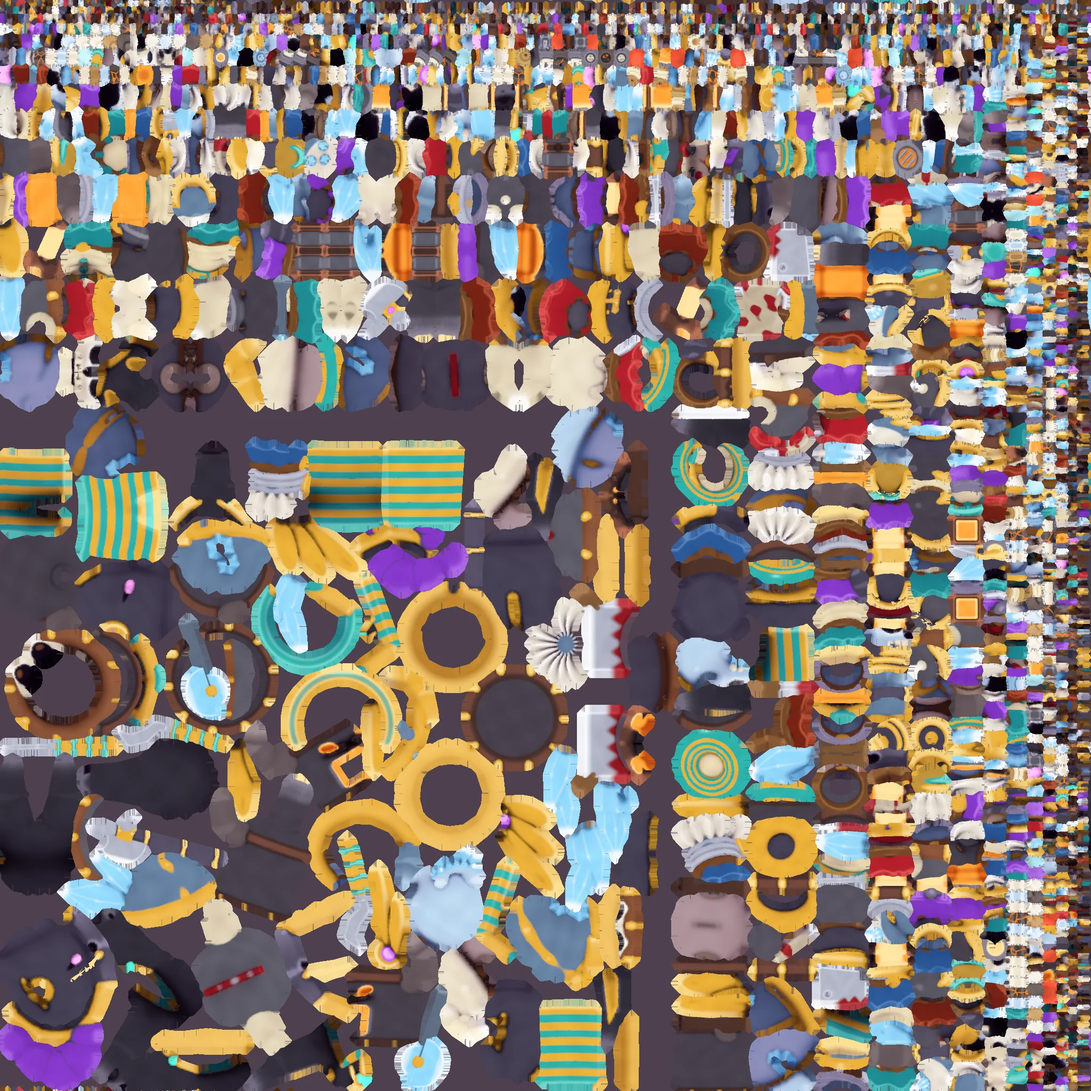
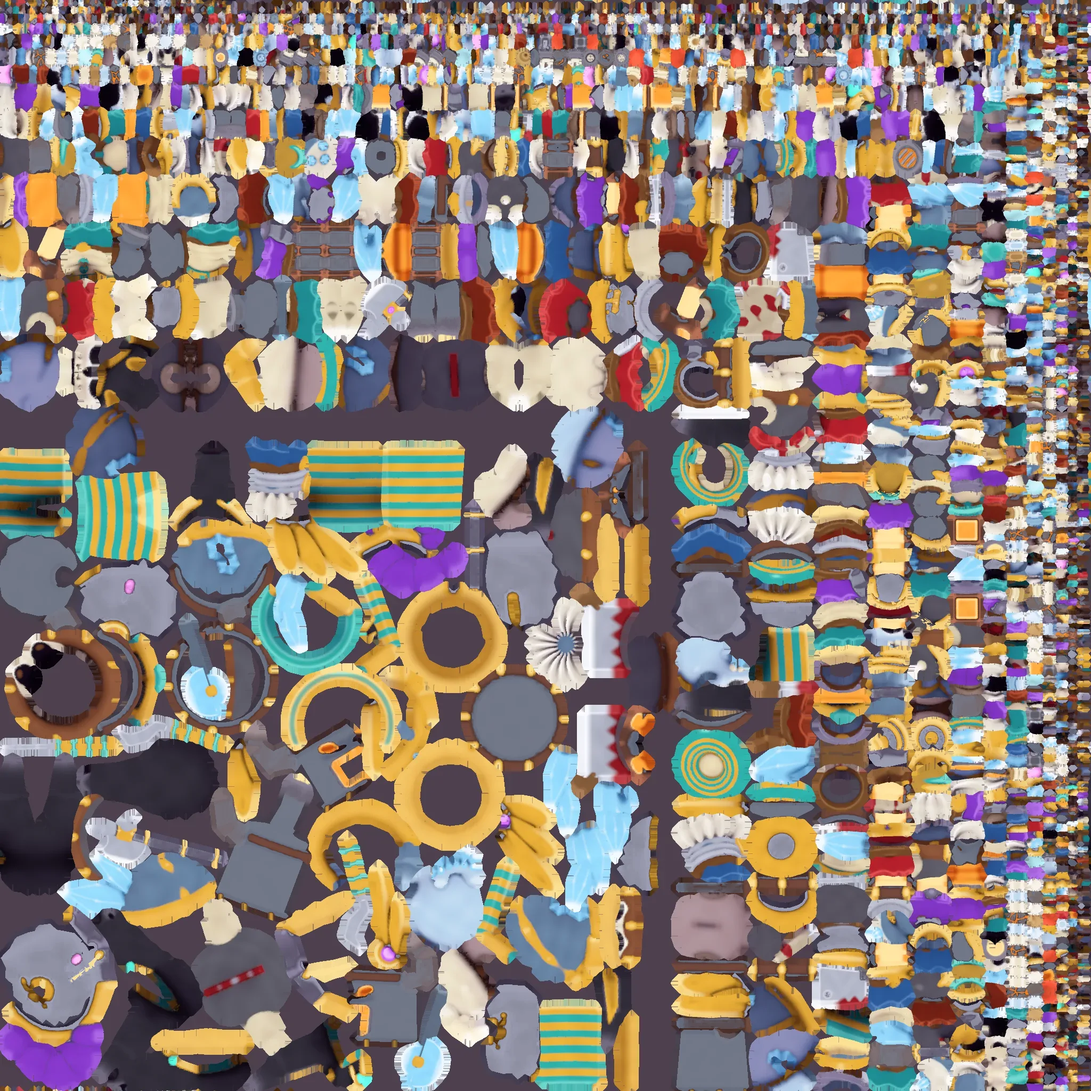
v149: character audit

diff --git a/index.html b/index.html
@@ -5682,8 +5682,9 @@ function buildWarlord(i) {
   if (art) { // the sculpted warlord
     root.traverse(o => { if (o.isSkinnedMesh) o.skeleton.pose(); }); root.updateMatrixWorld(true);
     const m = art.mat.clone(), fx = {}; mats.push(m); const parts = hangArt(root, art, m); fx.arms = ['cleaver', 'hook', 'staff', 'flail', 'spear', 'shield', 'hammer'].map(n => parts[n]).filter(Boolean);
+    if (parts.hammer) parts.hammer.rotateX(.55); if (parts.cleaver) parts.cleaver.rotateX(.3); // held out to the side, clear of the face
     if (parts.flag) fx.flag = parts.flag; // Grimbald's banner sways
-    if (art.geo.scarab) { fx.orbit = new THREE.Group(); for (let k = 0; k < 3; k++) { const a = k / 3 * Math.PI * 2, o = new THREE.Mesh(art.geo.scarab, m); o.position.set(Math.cos(a) * 1.15, 1.4 + k * .25, Math.sin(a) * 1.15); o.scale.setScalar(1.35); o.castShadow = true; o.frustumCulled = false; fx.orbit.add(o); } } // Sek-Ra's scarabs circle him
+    if (art.geo.scarab) { fx.orbit = new THREE.Group(); for (let k = 0; k < 3; k++) { const a = k / 3 * Math.PI * 2, o = new THREE.Mesh(art.geo.scarab, m); o.position.set(Math.cos(a) * 1.45, .98 + k * .1, Math.sin(a) * 1.45); o.scale.setScalar(1.1); o.castShadow = true; o.frustumCulled = false; fx.orbit.add(o); } m.emissiveIntensity = 1.7; } // Sek-Ra's scarabs circle him at the chest, never over his face; his eyes burn a little brighter
     if (art.J.mouth) { fx.mouth = new THREE.Object3D(); fx.mouth.position.set(...art.J.mouth); rigOn(root, 'head', fx.mouth); } // Hrimgar's frosty breath
     return finishWarlord(i, d, root, mats, fx, art);
   }
@@ -5987,12 +5988,12 @@ function strike() {
 function wlFx(b, dt, at, k) { // a warlord's own signs of life, wherever he stands. k: his size
   const mv = b.d.move, q = k / WL_S, X = at.x, Y = at.y, Z = at.z;
   if (b.fx.flag) b.fx.flag.rotation.y = Math.sin(G.t * 4.2) * .3;
-  if (b.fx.orbit) { b.fx.orbit.rotation.y += dt * 1.7; b.fx.orbit.children.forEach((c, k) => { c.position.y = 1.4 + k * .25 + Math.sin(G.t * 3 + k * 2) * .12; c.rotation.y = -b.fx.orbit.rotation.y + k; }); }
+  if (b.fx.orbit) { b.fx.orbit.rotation.y += dt * 1.7; b.fx.orbit.children.forEach((c, k) => { c.position.y = (b.art ? .98 + k * .1 : 1.4 + k * .25) + Math.sin(G.t * 3 + k * 2) * (b.art ? .06 : .12); c.rotation.y = -b.fx.orbit.rotation.y + k; }); }
   if (mv === 'swarm' && rand() < .6 && Y < 1) { const a = rand() * 6.28, r = 1.6 + rand() * 1.4; burst(X + Math.cos(a) * r, Y + .2 + rand() * .6, Z + Math.sin(a) * r, ['#e8c890', '#d6aa6a', '#fff0c0'], 1, 1.2, { vy: .8, life: .7, g: .5, sz: 1.3, kind: PK.SPARK }); } // a whirl of sand at his feet
   if (mv === 'spears' && b.fx.mouth) { if (rand() < .3) burst(X + (rand() - .5) * 3 * q, Y + .5 + rand() * 3.5 * q, Z + (rand() - .5) * 2, ['#ffffff', '#bfefff'], 1, .6, { vy: -.4, life: 1, g: .3, sz: 1.1, kind: PK.SPARK });
-    if ((WL.breathT = (WL.breathT || 0) - dt) <= 0) { WL.breathT = 1.4; b.fx.mouth.getWorldPosition(_kv); burst(_kv.x, _kv.y, _kv.z + .3, ['#ffffff', '#dff8ff', '#bfefff'], 7, 1.4, { vy: .3, life: .9, g: -.4, sz: 2, kind: PK.SPARK }); } } // frost on his breath
+    if ((WL.breathT = (WL.breathT || 0) - dt) <= 0) { WL.breathT = 1.4; b.fx.mouth.getWorldPosition(_kv); burst(_kv.x, _kv.y - .9 * q, _kv.z + .5, ['#dff8ff', '#bfefff'], 4, 1.1, { vy: -.2, life: .7, g: -.2, sz: 1, kind: PK.SPARK }); } } // frost on his breath
   if (mv === 'cleave' && rand() < .15) burst(X + (rand() - .5) * 2, Y + .3 + (Y > .05 ? 3 * rand() : 0), Z + (rand() - .5), ['#ff3a3a', '#8a1020'], 1, .8, { vy: 1, life: .5, g: 2, sz: 1.2, kind: PK.SPARK });
-  if (mv === 'quake' && rand() < .45) burst(X + (rand() - .5) * 1.6 * q, Y + 1 + rand() * 3.5 * q, Z + (rand() - .5) * 1.2, ['#ffe680', '#ff9a2a', '#ff4a1a'], 1, .8, { vy: 2.2, life: .7, g: -.6, sz: 1.4, kind: PK.SPARK }); // embers rising off him
+  if (mv === 'quake' && rand() < .07) burst(X + (rand() - .5) * 3.4 * q, Y + (4.1 + rand() * .7) * q, Z - .4, ['#ffe680', '#ff9a2a', '#ff4a1a'], 1, .8, { vy: 2.2, life: .7, g: -.6, sz: 1.4, kind: PK.SPARK }); // embers rising off him
 }
 function updateWarlord(dt, play) {
   captainTick(dt, play); holdTick(dt);
@@ -6039,7 +6040,7 @@ function updateWarlord(dt, play) {
         if (ants.kind[i]) { explode(ants.x[i], ants.z[i]); ants.hp[i] = 0; continue; }
         hurtWarlord(ants.hp[i]); ants.hp[i] = 0; hits++; if (rand() < .4) burst(ants.x[i], 1 + rand() * 2, ants.z[i], [ALLY_FX, '#ffffff', WL.def.col], 2, 3, { vy: 3, life: .4, g: 8, sz: 1.4, kind: PK.SPARK }); if (!WL.alive) break; }
       if (hits) meleeHit(); }
-    if (WL.def.move === 'quake' && rand() < .5 && b.fx.head) { b.fx.head.getWorldPosition(_kv); burst(_kv.x + (rand() - .5) * .6, _kv.y + .5, _kv.z, ['#ffe680', '#ff9a2a', '#ff4a1a'], 1, 1.2, { vy: 2.5, life: .5, g: -1, sz: 1.8, kind: PK.SPARK }); }
+    if (WL.def.move === 'quake' && rand() < .14 && b.fx.head) { b.fx.head.getWorldPosition(_kv); burst(_kv.x + (rand() - .5) * .6, _kv.y + .5, _kv.z, ['#ffe680', '#ff9a2a', '#ff4a1a'], 1, 1.2, { vy: 2.5, life: .5, g: -1, sz: 1.8, kind: PK.SPARK }); }
     // heavy footfalls: a thud you feel, a puff of dust and a print left on the road in his colour
     if (WL.state === 'walk' || WL.state === 'enter') { WL.stepT = (WL.stepT || 0) - dt;
       if (WL.stepT <= 0) { WL.stepT = WL.rage ? .42 : .55; WL.foot = -(WL.foot || 1); const px = WL.x + WL.foot * .6, pz = WL.z + .25;
@@ -6050,7 +6051,7 @@ function updateWarlord(dt, play) {
   // place him; he swells up as he comes through the gate, and flashes when he's hit
   const grow = WL.state === 'enter' ? .75 + .25 * Math.min(1, WL.st / 1.2) : 1;
   b.g.position.set(WL.x, WL.y, WL.z); b.g.scale.setScalar(WL_S * grow * (WL.def.s || 1));
-  for (const m of b.mats) if (m.emissiveMap) { m.color.setScalar(1 + WL.flash * .9); if (b.ghost) { m.color.r *= 1.25; m.color.g *= .8; m.color.b *= 1.9; } } else m.emissive.copy(m.userData.e0).lerp(WHITE, WL.flash * .22); // (a sculpted warlord has a glow map: his whole skin brightens instead)
+  for (const m of b.mats) if (m.emissiveMap) { m.color.setScalar(1 + WL.flash * .28); if (b.ghost) { m.color.r *= 1.25; m.color.g *= .8; m.color.b *= 1.9; } } else m.emissive.copy(m.userData.e0).lerp(WHITE, WL.flash * .22); // (a sculpted warlord has a glow map: his whole skin brightens instead)
 }
 /* ---------------- the captains ----------------
    Halfway through a world the warlord sends out his captain: a giant brute with a guard. While he stands the castle is shielded.
@@ -6065,7 +6066,7 @@ function buildCaptain(w) { // one of the four figures in the set, hung on the sa
   const B = CAP.built || (CAP.built = []); if (B[w]) return B[w];
   const root = THREE.SkeletonUtils.clone(KK.Skeleton_Warrior.scene); root.position.set(0, 0, 0); root.rotation.set(0, 0, 0); root.scale.setScalar(1);
   root.traverse(o => { if (o.isSkinnedMesh) o.skeleton.pose(); }); root.updateMatrixWorld(true);
-  const m = capArt.mat.clone(); hangArt(root, { geo: capArt.geo, J: { nodes: capArt.J.nodes.filter(n => n.name.startsWith('c' + w + '_')), glow: [] } }, m);
+  const m = capArt.mat.clone(); hangArt(root, { geo: capArt.geo, J: { nodes: capArt.J.nodes.filter(n => n.name.startsWith('c' + w + '_')), glow: [] } }, m); { const h = root.getObjectByName('handslotr'); if (h) for (const o of h.children) if (o.isMesh) o.rotateX(.5); } // (held out to the side: upright, it crossed his face)
   const g = new THREE.Group(); g.add(root); g.visible = false; g.userData.dyn = true; wlGroup.add(g);
   const mixer = new THREE.AnimationMixer(root), acts = {};
   for (const [k, n, alt] of [['walk', 'Walking_A', 'Running_A'], ['strike', 'Throw', 'Use_Item'], ['die', 'Death_A', 'Death_B']]) { const c = clipOf(n) || clipOf(alt); if (!c) continue; const a = acts[k] = mixer.clipAction(c); if (k !== 'walk') { a.setLoop(THREE.LoopOnce, 1); a.clampWhenFinished = true; } }
@@ -6099,7 +6100,7 @@ function captainDown(x, z, through) { // he falls, or breaks into your camp: eit
 }
 function captainTick(dt, play) {
   if (play && !CAP.on && !CAP.done && isCaptain(G.level) && G.fortHp <= G.fortMax * CAP_WARD) startCaptain();
-  if (CAP.b && CAP.b.g.visible) { const b = CAP.b; b.mixer.update(dt); CAP.flash = Math.max(0, (CAP.flash || 0) - dt * 5); b.m.color.setScalar(1 + CAP.flash * .9); if (CAP.act && (CAP.actT -= dt) <= 0) { CAP.act.fadeOut(.2); CAP.act = null; if (b.acts.walk) b.acts.walk.setEffectiveWeight(1); } if (CAP.dead) { CAP.dead += dt; if (CAP.dead > 1.8) b.g.position.y -= dt * 1.5; if (CAP.dead > 4) b.g.visible = false; } }
+  if (CAP.b && CAP.b.g.visible) { const b = CAP.b; b.mixer.update(dt); CAP.flash = Math.max(0, (CAP.flash || 0) - dt * 5); b.m.color.setScalar(1 + CAP.flash * .25); if (CAP.act && (CAP.actT -= dt) <= 0) { CAP.act.fadeOut(.2); CAP.act = null; if (b.acts.walk) b.acts.walk.setEffectiveWeight(1); } if (CAP.dead) { CAP.dead += dt; if (CAP.dead > 1.8) b.g.position.y -= dt * 1.5; if (CAP.dead > 4) b.g.visible = false; } }
   if (!CAP.alive) return;
   let j = -1; for (let k = 0; k < beetles.n; k++) if (beetles.tier[k] === F_CAP && beetles.hp[k] > 0) { j = k; break; }
   if (j < 0) { captainDown(CAP.x, CAP.z); return; }
@@ -7306,7 +7307,7 @@ window.addEventListener('keyup', e => { keys[e.key] = false; if (e.key === ' ') 
 async function perfTest() { // ?perf: speed test 4. First the frame rate (an empty page, then a battle as you play it), then what each part of a frame costs the GPU when it is kept busy
   const box = document.createElement('div'); box.style.cssText = 'position:fixed;left:6px;right:6px;top:calc(env(safe-area-inset-top) + 6px);z-index:99;padding:9px 11px;border-radius:12px;background:rgba(8,12,30,.92);color:#fff;font:600 12px/1.42 ui-monospace,Menlo,monospace;white-space:pre'; document.body.appendChild(box);
   const wait = ms => new Promise(r => setTimeout(r, ms)), raf = () => new Promise(r => requestAnimationFrame(r)), rows = [], gl = renderer.getContext(), px = new Uint8Array(4), med = a => a.sort((x, y) => x - y)[a.length >> 1];
-  const V = 'Speed test 4 (v148' + (LEAN ? ', lean)' : ')'), show = s => { box.textContent = V + ': ' + s + '\n' + rows.join('\n'); };
+  const V = 'Speed test 4 (v149' + (LEAN ? ', lean)' : ')'), show = s => { box.textContent = V + ': ' + s + '\n' + rows.join('\n'); };
   box.textContent = V + ': tap here to start\n(about 40 s, with sound)'; await new Promise(r => box.addEventListener('pointerdown', r, { once: true }));
   audio(); show('loading...'); G.perf = true; G.practiceKeep = JSON.stringify(save); G.practice = true; save.level = 11; save.v = 3;
   await Promise.race([loadLm('dunes'), wait(8000)]); await wait(800);
@@ -7370,7 +7371,7 @@ const AB = /[?&]ab(=1)?(&|$)/.test(location.search) ? (() => {
   const show = () => {
     if (!X.box) { X.box = document.createElement('div'); X.box.style.cssText = 'position:fixed;left:6px;top:calc(env(safe-area-inset-top) + 6px);z-index:99;pointer-events:none;padding:7px 9px;border-radius:10px;background:rgba(8,12,30,.88);color:#fff;font:600 11px/1.35 ui-monospace,Menlo,monospace;white-space:pre'; document.body.appendChild(X.box); }
     const c = Math.min(...D.map(d => d.t)) / (SLOT - SKIP), f = (a, b) => (b ? a / b : 0).toFixed(1).padStart(5);
-    X.done = c >= 3.9; X.box.textContent = (X.done ? 'DONE: screenshot this' : 'Keep playing: ' + Math.min(99, Math.floor(c / 4 * 100)) + '%') + '  (v148' + (LEAN ? ' lean' : '') + ')\n' + 'off now'.padEnd(16) + ' fps  60% rules  draw  page\n' + D.map((d, i) => (i === X.m ? '>' : ' ') + N[i].padEnd(15) + (d.t ? 1000 * d.n / d.t : 0).toFixed(0).padStart(4) + (d.n ? Math.round(100 * d.ok / d.n) : 0).toString().padStart(5) + f(d.u, d.n) + ' ' + f(d.r, d.n) + ' ' + f(d.p, d.pn)).join('\n') + '\n' + gameEl.clientWidth + 'x' + gameEl.clientHeight + ' @' + pixelRatio + '  ' + ants.n + '/' + beetles.n + '  touches ' + (D[0].n ? D[0].ev / D[0].n : 0).toFixed(1);
+    X.done = c >= 3.9; X.box.textContent = (X.done ? 'DONE: screenshot this' : 'Keep playing: ' + Math.min(99, Math.floor(c / 4 * 100)) + '%') + '  (v149' + (LEAN ? ' lean' : '') + ')\n' + 'off now'.padEnd(16) + ' fps  60% rules  draw  page\n' + D.map((d, i) => (i === X.m ? '>' : ' ') + N[i].padEnd(15) + (d.t ? 1000 * d.n / d.t : 0).toFixed(0).padStart(4) + (d.n ? Math.round(100 * d.ok / d.n) : 0).toString().padStart(5) + f(d.u, d.n) + ' ' + f(d.r, d.n) + ' ' + f(d.p, d.pn)).join('\n') + '\n' + gameEl.clientWidth + 'x' + gameEl.clientHeight + ' @' + pixelRatio + '  ' + ants.n + '/' + beetles.n + '  touches ' + (D[0].n ? D[0].ev / D[0].n : 0).toFixed(1);
   };
   X.frame = (now, dt, raw) => { // stands in for update + render
     if (G.mode !== 'play' || G.paused || G.t < 2.5) { if (X.on) { put(X.m, false); X.on = false; } X.at = 0; return false; }
@@ -7398,7 +7399,7 @@ const AB2 = /[?&]ab=2(&|$)/.test(location.search) ? (() => {
   const show = () => {
     if (!X.box) { X.box = document.createElement('div'); X.box.style.cssText = 'position:fixed;left:6px;top:calc(env(safe-area-inset-top) + 6px);z-index:99;pointer-events:none;padding:7px 9px;border-radius:10px;background:rgba(8,12,30,.88);color:#fff;font:600 11px/1.35 ui-monospace,Menlo,monospace;white-space:pre'; document.body.appendChild(X.box); }
     const c = Math.min(...D.map((d, k) => d.t / (LEN(k) - SKIP))), f = (a, b) => (b ? a / b : 0).toFixed(1).padStart(5);
-    X.box.textContent = (c >= 3.9 ? 'DONE: screenshot this' : 'Keep playing: ' + Math.min(99, Math.floor(c / 4 * 100)) + '%') + '  (real play, v148' + (LEAN ? ' lean' : '') + ')\n' + 'changed'.padEnd(16) + ' fps  60%  30% rules  draw  page\n' + D.map((d, i) => (i === X.m ? '>' : ' ') + N[i].padEnd(15) + (d.t ? 1000 * d.n / d.t : 0).toFixed(0).padStart(4) + (d.n ? Math.round(100 * d.ok / d.n) : 0).toString().padStart(5) + (d.n ? Math.round(100 * d.half / d.n) : 0).toString().padStart(5) + f(d.u, d.n) + ' ' + f(d.r, d.n) + ' ' + f(d.p, d.pn)).join('\n');
+    X.box.textContent = (c >= 3.9 ? 'DONE: screenshot this' : 'Keep playing: ' + Math.min(99, Math.floor(c / 4 * 100)) + '%') + '  (real play, v149' + (LEAN ? ' lean' : '') + ')\n' + 'changed'.padEnd(16) + ' fps  60%  30% rules  draw  page\n' + D.map((d, i) => (i === X.m ? '>' : ' ') + N[i].padEnd(15) + (d.t ? 1000 * d.n / d.t : 0).toFixed(0).padStart(4) + (d.n ? Math.round(100 * d.ok / d.n) : 0).toString().padStart(5) + (d.n ? Math.round(100 * d.half / d.n) : 0).toString().padStart(5) + f(d.u, d.n) + ' ' + f(d.r, d.n) + ' ' + f(d.p, d.pn)).join('\n');
   };
   X.frame = (now, dt, raw) => {
     if (G.mode !== 'play' || G.paused || G.t < 2.5) { if (X.on) { put(X.m, false); X.on = false; } X.at = 0; return false; }
